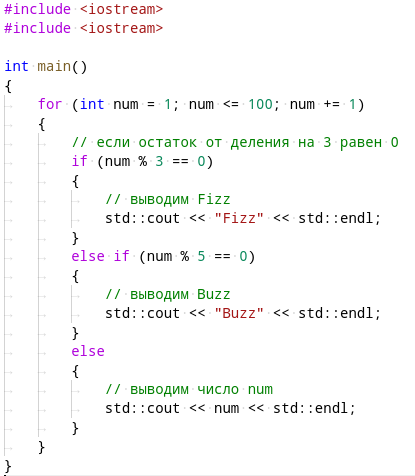
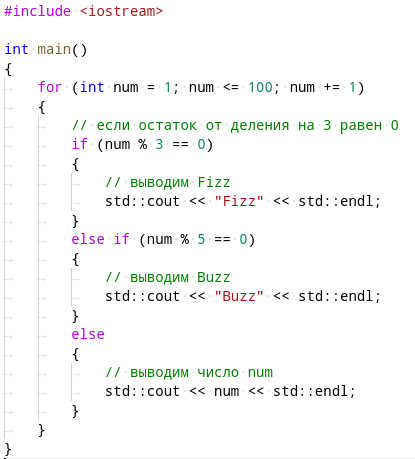
Исправлены опечатки, добавлено разъяснение в примере с волной

diff --git a/_ps1/lesson_sfml_2.md b/_ps1/lesson_sfml_2.md
@@ -394,59 +394,28 @@ shape.setPosition(position);
 
 ![Иллюстрация](img/fig/sinusoid.png)
 
-В C++ тригонометрические функции доступны в заголовке [cmath](http://en.cppreference.com/w/cpp/header/cmath) под именами `std::sin` и `std::cos`. Перепишите следующий код:
+В C++ тригонометрические функции доступны в заголовке [cmath](http://en.cppreference.com/w/cpp/header/cmath) под именами `std::sin` и `std::cos`.
+
+Мы зададим несколько констант, параметризующих движение. Константы обозначим с помощью constexpr, что гарантирует вычисление константы ещё в момент компиляции, а не в помент выполнения программы.
 
 ```cpp
-#include <SFML/Graphics.hpp>
-#include <SFML/System.hpp>
-#include <SFML/Window.hpp>
-#include <cmath>
-
-constexpr unsigned WINDOW_WIDTH = 800;
-constexpr unsigned WINDOW_HEIGHT = 600;
-
-int main()
-{
-    constexpr float BALL_SIZE = 40;
-
-    sf::RenderWindow window(sf::VideoMode({ WINDOW_WIDTH, WINDOW_HEIGHT }), "Wave Moving Ball");
-    sf::Clock clock;
-
-    const sf::Vector2f position1 = { 10, 250 };
-    const sf::Vector2f position2 = { 10, 350 };
-
-    sf::CircleShape ball(BALL_SIZE);
-    ball.setFillColor(sf::Color(0xFF, 0xFF, 0xFF));
-
-    while (window.isOpen())
-    {
-        sf::Event event;
-        while (window.pollEvent(event))
-        {
-            if (event.type == sf::Event::Closed)
-            {
-                window.close();
-            }
-        }
-
-        constexpr float speedX = 100.f;
-        constexpr float amplitudeY = 80.f;
-        constexpr float periodY = 2;
-
-        const float time = clock.getElapsedTime().asSeconds();
-        const float x = speedX * time;
-        const float wavePhase = time * float(2 * M_PI);
-        const float y = amplitudeY * std::sin(wavePhase / periodY);
-        const sf::Vector2f offset = { x, y };
-
-        ball.setPosition(position1 + offset);
-
-        window.clear();
-        window.draw(ball);
-        window.display();
-    }
-}
+constexpr float speedX = 100.f;
+constexpr float amplitudeY = 80.f;
+constexpr float periodY = 2;
 ```
+
+Мы также будем вычислять координаты на основе только лишь времени. Вспомогательная переменная `wavePhase` - это фаза волны, которую мы поделим на период, чтобы фаза повторялась раз в `periodY` секунд:
+
+```cpp
+const float time = clock.getElapsedTime().asSeconds();
+const float wavePhase = time * float(2 * M_PI);
+const float x = speedX * time;
+const float y = amplitudeY * std::sin(wavePhase / periodY);
+```
+
+Перепишите следующий код:
+
+![Код](img/code/sfml2_wave_v1.png)
 
 ## Задание sfml2.1: волновое движение с отталкиванием
 
